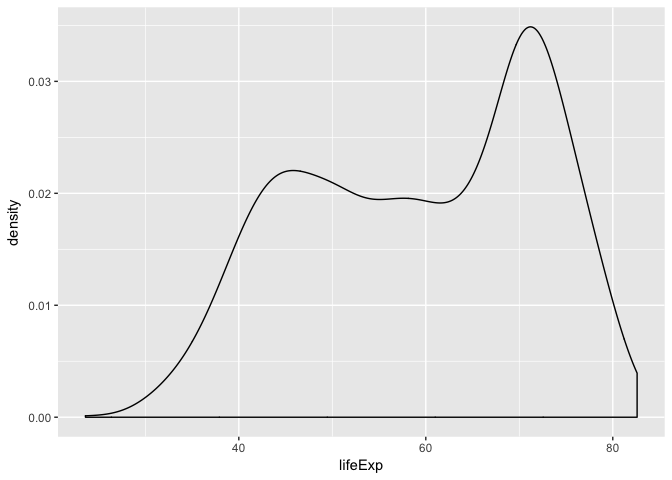
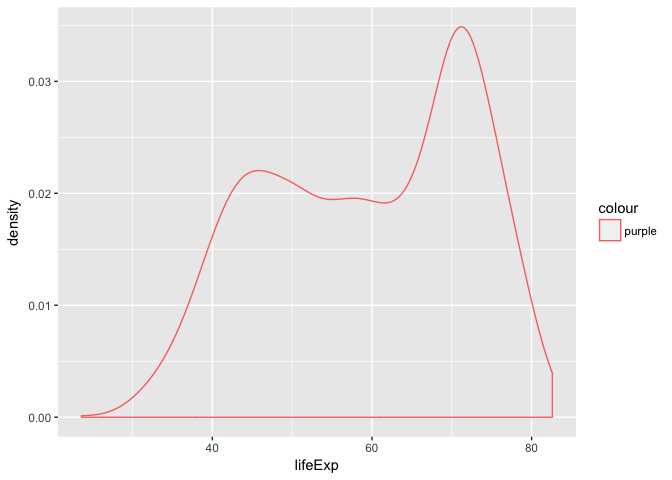
knit2

diff --git a/hw02/hw02.md b/hw02/hw02.md
@@ -130,7 +130,7 @@ summary(gapminder)
     ##  Max.   :1.319e+09   Max.   :113523.1  
     ## 
 
-We can us the as\_tibble() function to see the number of columns and their names, number of rows and data type of each variable.
+We can use the as\_tibble() function to see the number of columns and their names, number of rows and data type of each variable.
 
 ``` r
 as_tibble(gapminder)
@@ -198,7 +198,7 @@ class(gapminder$gdpPercap)
 
     ## [1] "numeric"
 
-Classes are as follows: \* country = factor \* continent = factor \* year = integer \* lifeExp = numeric (double) \* pop = integer \* gdpPercap = numeric (double)
+Classes are as follows: - country = factor - continent = factor - year = integer - lifeExp = numeric (double) - pop = integer - gdpPercap = numeric (double)
 
 Exploring individual variables
 ------------------------------
@@ -206,93 +206,6 @@ Exploring individual variables
 #### 1. Pick one categorical variable (country) and at least one quantitative variable (gdpPercap) to explore. What are the possible values or range of each variable? What is the distribution?
 
 **Categorical variable I chose is country:**
-
-``` r
-summary(gapminder$country)
-```
-
-    ##              Afghanistan                  Albania                  Algeria 
-    ##                       12                       12                       12 
-    ##                   Angola                Argentina                Australia 
-    ##                       12                       12                       12 
-    ##                  Austria                  Bahrain               Bangladesh 
-    ##                       12                       12                       12 
-    ##                  Belgium                    Benin                  Bolivia 
-    ##                       12                       12                       12 
-    ##   Bosnia and Herzegovina                 Botswana                   Brazil 
-    ##                       12                       12                       12 
-    ##                 Bulgaria             Burkina Faso                  Burundi 
-    ##                       12                       12                       12 
-    ##                 Cambodia                 Cameroon                   Canada 
-    ##                       12                       12                       12 
-    ## Central African Republic                     Chad                    Chile 
-    ##                       12                       12                       12 
-    ##                    China                 Colombia                  Comoros 
-    ##                       12                       12                       12 
-    ##         Congo, Dem. Rep.              Congo, Rep.               Costa Rica 
-    ##                       12                       12                       12 
-    ##            Cote d'Ivoire                  Croatia                     Cuba 
-    ##                       12                       12                       12 
-    ##           Czech Republic                  Denmark                 Djibouti 
-    ##                       12                       12                       12 
-    ##       Dominican Republic                  Ecuador                    Egypt 
-    ##                       12                       12                       12 
-    ##              El Salvador        Equatorial Guinea                  Eritrea 
-    ##                       12                       12                       12 
-    ##                 Ethiopia                  Finland                   France 
-    ##                       12                       12                       12 
-    ##                    Gabon                   Gambia                  Germany 
-    ##                       12                       12                       12 
-    ##                    Ghana                   Greece                Guatemala 
-    ##                       12                       12                       12 
-    ##                   Guinea            Guinea-Bissau                    Haiti 
-    ##                       12                       12                       12 
-    ##                 Honduras         Hong Kong, China                  Hungary 
-    ##                       12                       12                       12 
-    ##                  Iceland                    India                Indonesia 
-    ##                       12                       12                       12 
-    ##                     Iran                     Iraq                  Ireland 
-    ##                       12                       12                       12 
-    ##                   Israel                    Italy                  Jamaica 
-    ##                       12                       12                       12 
-    ##                    Japan                   Jordan                    Kenya 
-    ##                       12                       12                       12 
-    ##         Korea, Dem. Rep.              Korea, Rep.                   Kuwait 
-    ##                       12                       12                       12 
-    ##                  Lebanon                  Lesotho                  Liberia 
-    ##                       12                       12                       12 
-    ##                    Libya               Madagascar                   Malawi 
-    ##                       12                       12                       12 
-    ##                 Malaysia                     Mali               Mauritania 
-    ##                       12                       12                       12 
-    ##                Mauritius                   Mexico                 Mongolia 
-    ##                       12                       12                       12 
-    ##               Montenegro                  Morocco               Mozambique 
-    ##                       12                       12                       12 
-    ##                  Myanmar                  Namibia                    Nepal 
-    ##                       12                       12                       12 
-    ##              Netherlands              New Zealand                Nicaragua 
-    ##                       12                       12                       12 
-    ##                    Niger                  Nigeria                   Norway 
-    ##                       12                       12                       12 
-    ##                     Oman                 Pakistan                   Panama 
-    ##                       12                       12                       12 
-    ##                  (Other) 
-    ##                      516
-
-``` r
-str(gapminder)
-```
-
-    ## Classes 'tbl_df', 'tbl' and 'data.frame':    1704 obs. of  6 variables:
-    ##  $ country  : Factor w/ 142 levels "Afghanistan",..: 1 1 1 1 1 1 1 1 1 1 ...
-    ##  $ continent: Factor w/ 5 levels "Africa","Americas",..: 3 3 3 3 3 3 3 3 3 3 ...
-    ##  $ year     : int  1952 1957 1962 1967 1972 1977 1982 1987 1992 1997 ...
-    ##  $ lifeExp  : num  28.8 30.3 32 34 36.1 ...
-    ##  $ pop      : int  8425333 9240934 10267083 11537966 13079460 14880372 12881816 13867957 16317921 22227415 ...
-    ##  $ gdpPercap: num  779 821 853 836 740 ...
-
-There are 142 possible values for 'Countries', each one having 12 entries. The possible values (names of all countries) can be seen by calling on a summary, and if you use the str function you can see the number of factors (number of countires) being 142, but not all their names. I'm not sure how to describe the range of countries...if we plot it you would see a uniform distribution as each country as 12 values, which isn't very informative at all.
 
 ``` r
 table(gapminder$country)
@@ -397,6 +310,20 @@ table(gapminder$country)
     ##                       12
 
 ``` r
+str(gapminder)
+```
+
+    ## Classes 'tbl_df', 'tbl' and 'data.frame':    1704 obs. of  6 variables:
+    ##  $ country  : Factor w/ 142 levels "Afghanistan",..: 1 1 1 1 1 1 1 1 1 1 ...
+    ##  $ continent: Factor w/ 5 levels "Africa","Americas",..: 3 3 3 3 3 3 3 3 3 3 ...
+    ##  $ year     : int  1952 1957 1962 1967 1972 1977 1982 1987 1992 1997 ...
+    ##  $ lifeExp  : num  28.8 30.3 32 34 36.1 ...
+    ##  $ pop      : int  8425333 9240934 10267083 11537966 13079460 14880372 12881816 13867957 16317921 22227415 ...
+    ##  $ gdpPercap: num  779 821 853 836 740 ...
+
+There are 142 possible values for 'Countries', each one having 12 entries. The possible values (names of all countries) can be seen by calling on a summary, and if you use the str function you can see the number of factors (number of countires) being 142, but not all their names. I'm not sure how to describe the range of countries...if we plot it you would see a uniform distribution as each country as 12 values, which isn't very informative at all.
+
+``` r
 barplot(table(gapminder$country))
 ```
 
@@ -411,7 +338,7 @@ summary(gapminder$lifeExp)
     ##    Min. 1st Qu.  Median    Mean 3rd Qu.    Max. 
     ##   23.60   48.20   60.71   59.47   70.85   82.60
 
-This is easier to describe: we can see life expectancy is between 23.60 - 82.60. The minimum and maximum life expectancy was found using the filter function: Rwanda has the lowest life expectancy (23.60) and Japan has the highest (82.60). The range would therefore be 59 years.
+This is easier to describe: we can see life expectancy is between 23.60 - 82.60. The specific countries experiencing the minimum and maximum life expectancy was found using the filter function:
 
 ``` r
 filter(gapminder, lifeExp<24)
@@ -430,6 +357,8 @@ filter(gapminder, lifeExp>82.5)
     ##   country continent  year lifeExp       pop gdpPercap
     ##    <fctr>    <fctr> <int>   <dbl>     <int>     <dbl>
     ## 1   Japan      Asia  2007  82.603 127467972  31656.07
+
+Rwanda has the lowest life expectancy (23.60) and Japan has the highest (82.60). The range would therefore be 59 years. I'm not sure if this was the most efficient way to identify the specific countries, but it worked.
 
 Typical values can be found using the following functions:
 
@@ -492,7 +421,7 @@ I'm not sure if this was the best way to do this, but it shows that GDP per capi
 Plotting the quantitative variable life expectancy: I tried using a density plot (which took me longer than I'm proud of), which basically looks like a rounded version of the histogram for life expectancy. I couldn't figure out how to add colour to this.
 
 ``` r
-ggplot(gapminder, aes(x=lifeExp), colour = "purple") + geom_density()
+ggplot(gapminder, aes(x=lifeExp, colour="purple")) + geom_density()
 ```
 
 ![](hw02_files/figure-markdown_github-ascii_identifiers/unnamed-chunk-20-1.png)
@@ -506,10 +435,6 @@ ggplot (gapminder, aes(x=(lifeExp), colour=continent)) + geom_density()
 ![](hw02_files/figure-markdown_github-ascii_identifiers/unnamed-chunk-21-1.png)
 
 **A plot of one quantitative variable and one categorical. Maybe boxplots for several continents or countries**
-
-Use filter(), select() and %&gt;%
-
-Practice piping together filter() and select(). Possibly even piping into ggplot().
 
 Plotting Chile's GDP per capita:
 
@@ -530,7 +455,7 @@ p + geom_line()
 
 This is a plot of two quantitative variables (GDP per capita and year) using Chile as an example. We can see from the graph that Chile's GDP per capita is increasing over time, quite drastically in the last 30 years.
 
-**Trying again:**
+**Another example:**
 
 Countries in Asia whose mean life expectancies are above the world average (60.71) and their mean GDP per capitas graphed:
 
@@ -547,6 +472,8 @@ gapminder %>% filter(continent=="Asia", lifeExp>60.71) %>% select(gdpPercap, lif
 ```
 
 ![](hw02_files/figure-markdown_github-ascii_identifiers/unnamed-chunk-25-1.png)
+
+I tried to group by country, but couldn't figure out how (so each country would have its own colour).
 
 **Another example**
 
@@ -571,13 +498,13 @@ This was taken from the class notes and amended. We can see that between the tim
 Reporting
 ---------
 
-This took me much longer than Homework 1, which is expected as it goes into concepts in much more detail. I found the class on piping went a bit over my head, so I had to do some readings and use some online resources to better understand the syntax. This is definitely very new to me and I need to keep constantly referring back to notes/online resources/tutorials. I actually completed about 8 or 9 Swirl modules over the weekend to wrap my head around some of the basics which I maybe didn't totally understand in the first few weeks of this class. I found it really helped, and also helped me answer the first part of this homework (exploring the gapminder object).
+This took me much longer than Homework 1, which is expected as it goes into concepts in much more detail. I found the class on piping went a bit over my head, so I had to do some readings and use some online resources to better understand the syntax. This is definitely very new to me and I need to keep constantly referring back to notes/online resources/tutorials. I actually completed about 8 or 9 Swirl modules over the weekend to wrap my head around some of the basics which I maybe didn't totally understand in the first few weeks of this class. I found it really helped, and also helped me answer the first part of this homework (exploring the gapminder object) which was fairly straightforward.
 
-I found I spent a really long time on this homework, and didn't want to overcomplicate things by trying the additional section just yet. Maybe after a few more classes or a bit more practice as I'm still getting the hang of this!
+I found I spent a really long time on this homework, and didn't want to overcomplicate things by trying the additional section just yet (using kable etc). Maybe after a few more classes or a bit more practice as I'm still getting the hang of this!
 
 **Some problems I encountered**
 
--   Colouring my density plot (still can't figure out how).
+-   Colouring my density plot (I figured out that the 'colour=' command needed to be within the initial aes function, however I wanted "purple" and got orange...not sure why.
 -   Not getting confused when assigning names to a dataset and then plotting it (sounds stupid but I kept forgetting to name things memorably)
--   Pushing my github doc...
+-   Knitting my github doc kept resulting in errors...I then realized with Vincenzo's help that the "keep md: true" line didn't need to be there as a github document automatically does this. I removed that line and it worked!
 -   It took me a really, really, really, really long time to get the graph of the countires in Asia whose mean life expectancies are above 60.71 vs. GDP per capita to work. I went over the class notes and got some help online as well, and finally got it to work! Initially I made the mistake of trying to add the geom\_point within the penultimate level, and then realised I didn't properly understand the process of piping. I re-read the class notes and also looked at [this website](http://seananderson.ca/2014/09/13/dplyr-intro.html) to help.
